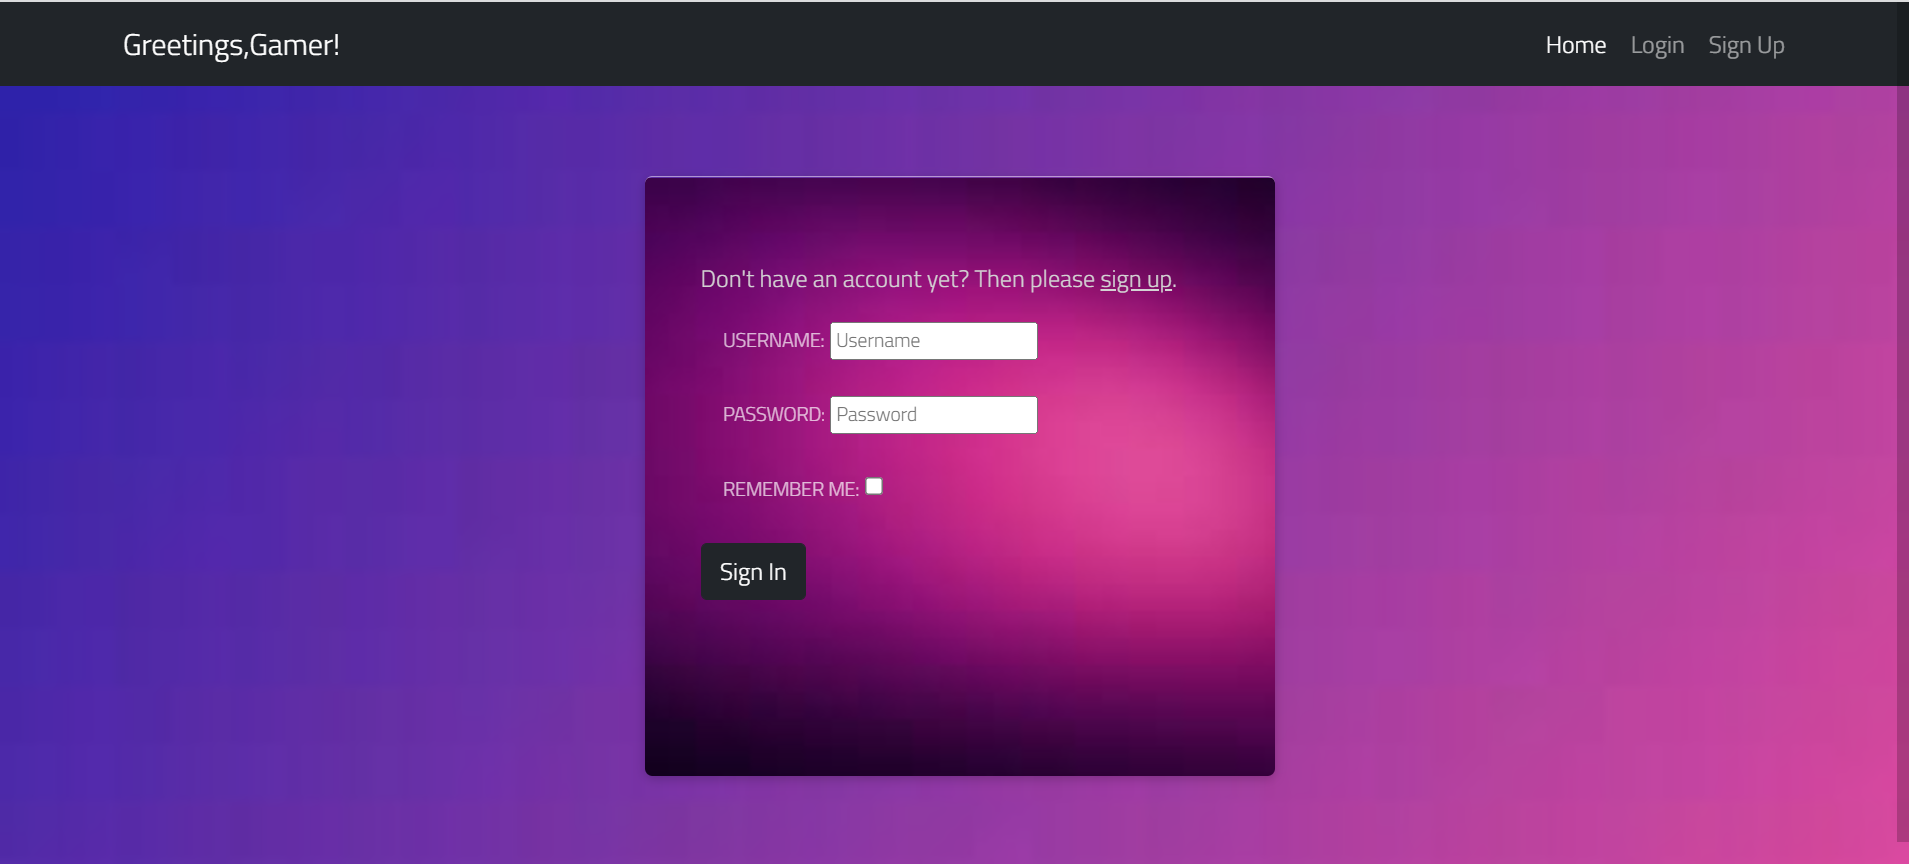
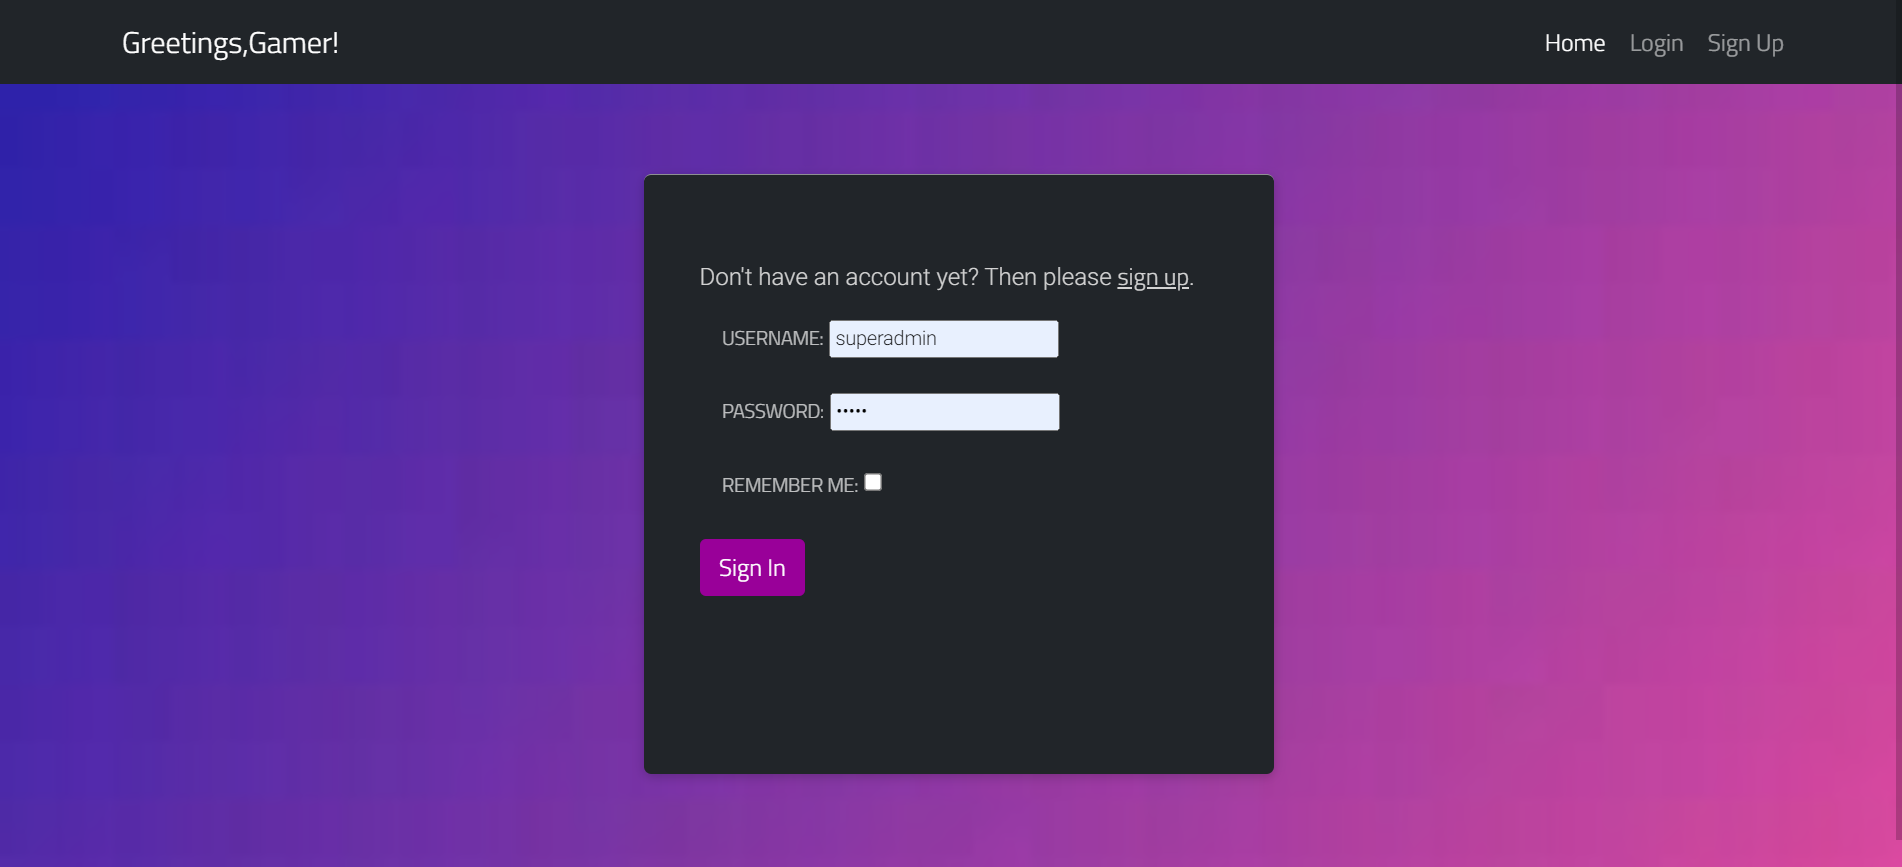
minor corrections to readme

diff --git a/static/css/login.css b/static/css/login.css
@@ -27,7 +27,7 @@ body {
 .frame {
     height: 400px;
     width: 420px;
-    background: url(https://encrypted-tbn0.gstatic.com/images?q=tbn%3AANd9GcS82mL0lCjn8cUhnzzoE1oYnjPkobX4USGFXw&usqp=CAU) no-repeat center center;
+    background: #212529;
     background-size: cover;
     margin-left: auto;
     margin-right: auto;
@@ -41,7 +41,7 @@ body {
 .frame-up {
     height: 500px;
     width: 420px;
-    background: url(https://encrypted-tbn0.gstatic.com/images?q=tbn%3AANd9GcS82mL0lCjn8cUhnzzoE1oYnjPkobX4USGFXw&usqp=CAU) no-repeat center center;
+    background:#212529;
     background-size: cover;
     margin-left: auto;
     margin-right: auto;
@@ -55,7 +55,7 @@ body {
 .frame-out {
     height: 250px;
     width: 420px;
-    background: url(https://encrypted-tbn0.gstatic.com/images?q=tbn%3AANd9GcS82mL0lCjn8cUhnzzoE1oYnjPkobX4USGFXw&usqp=CAU) no-repeat center center;
+    background: #212529;
     background-size: cover;
     margin-left: auto;
     margin-right: auto;
@@ -547,6 +547,11 @@ a.btn-goback:hover {
 .btn-center {
   display: flex;
   justify-content: center;
+}
+
+.btn-purple {
+    color: white !important;
+    background-color: #990099 !important;
 }
 
 .link {

diff --git a/templates/account/logout.html b/templates/account/logout.html
@@ -37,7 +37,7 @@
               {% if redirect_field_value %}
               <input type="hidden" class="form-styling" name="{{ redirect_field_name }}" value="{{ redirect_field_value }}" />
               {% endif %}
-              <button class="btn btn-primary tn-animate btn-center" type="submit">{% trans "Sign Out" %}</button>
+              <button class="btn btn-purple tn-animate btn-center" type="submit">{% trans "Sign Out" %}</button>
           </form>
       </div>   
   </div> 

diff --git a/templates/account/login.html b/templates/account/login.html
@@ -42,7 +42,7 @@
               {% if redirect_field_value %}
               <input type="hidden" class="form-styling" name="{{ redirect_field_name }}" value="{{ redirect_field_value }}" />
               {% endif %}
-              <button class="btn  btn-primary tn-animate" type="submit">{% trans "Sign In" %}</button>
+              <button class="btn  btn-purple tn-animate" type="submit">{% trans "Sign In" %}</button>
           </form>
       </div>   
   </div> 

diff --git a/templates/account/signup.html b/templates/account/signup.html
@@ -36,7 +36,7 @@
               {% if redirect_field_value %}
               <input type="hidden" class="form-styling" name="{{ redirect_field_name }}" value="{{ redirect_field_value }}" />
               {% endif %}
-              <button class="btn  btn-primary tn-animate" type="submit">{% trans "Sign Up" %}</button>
+              <button class="btn  btn-purple tn-animate" type="submit">{% trans "Sign Up" %}</button>
           </form>
       </div>   
   </div> 
